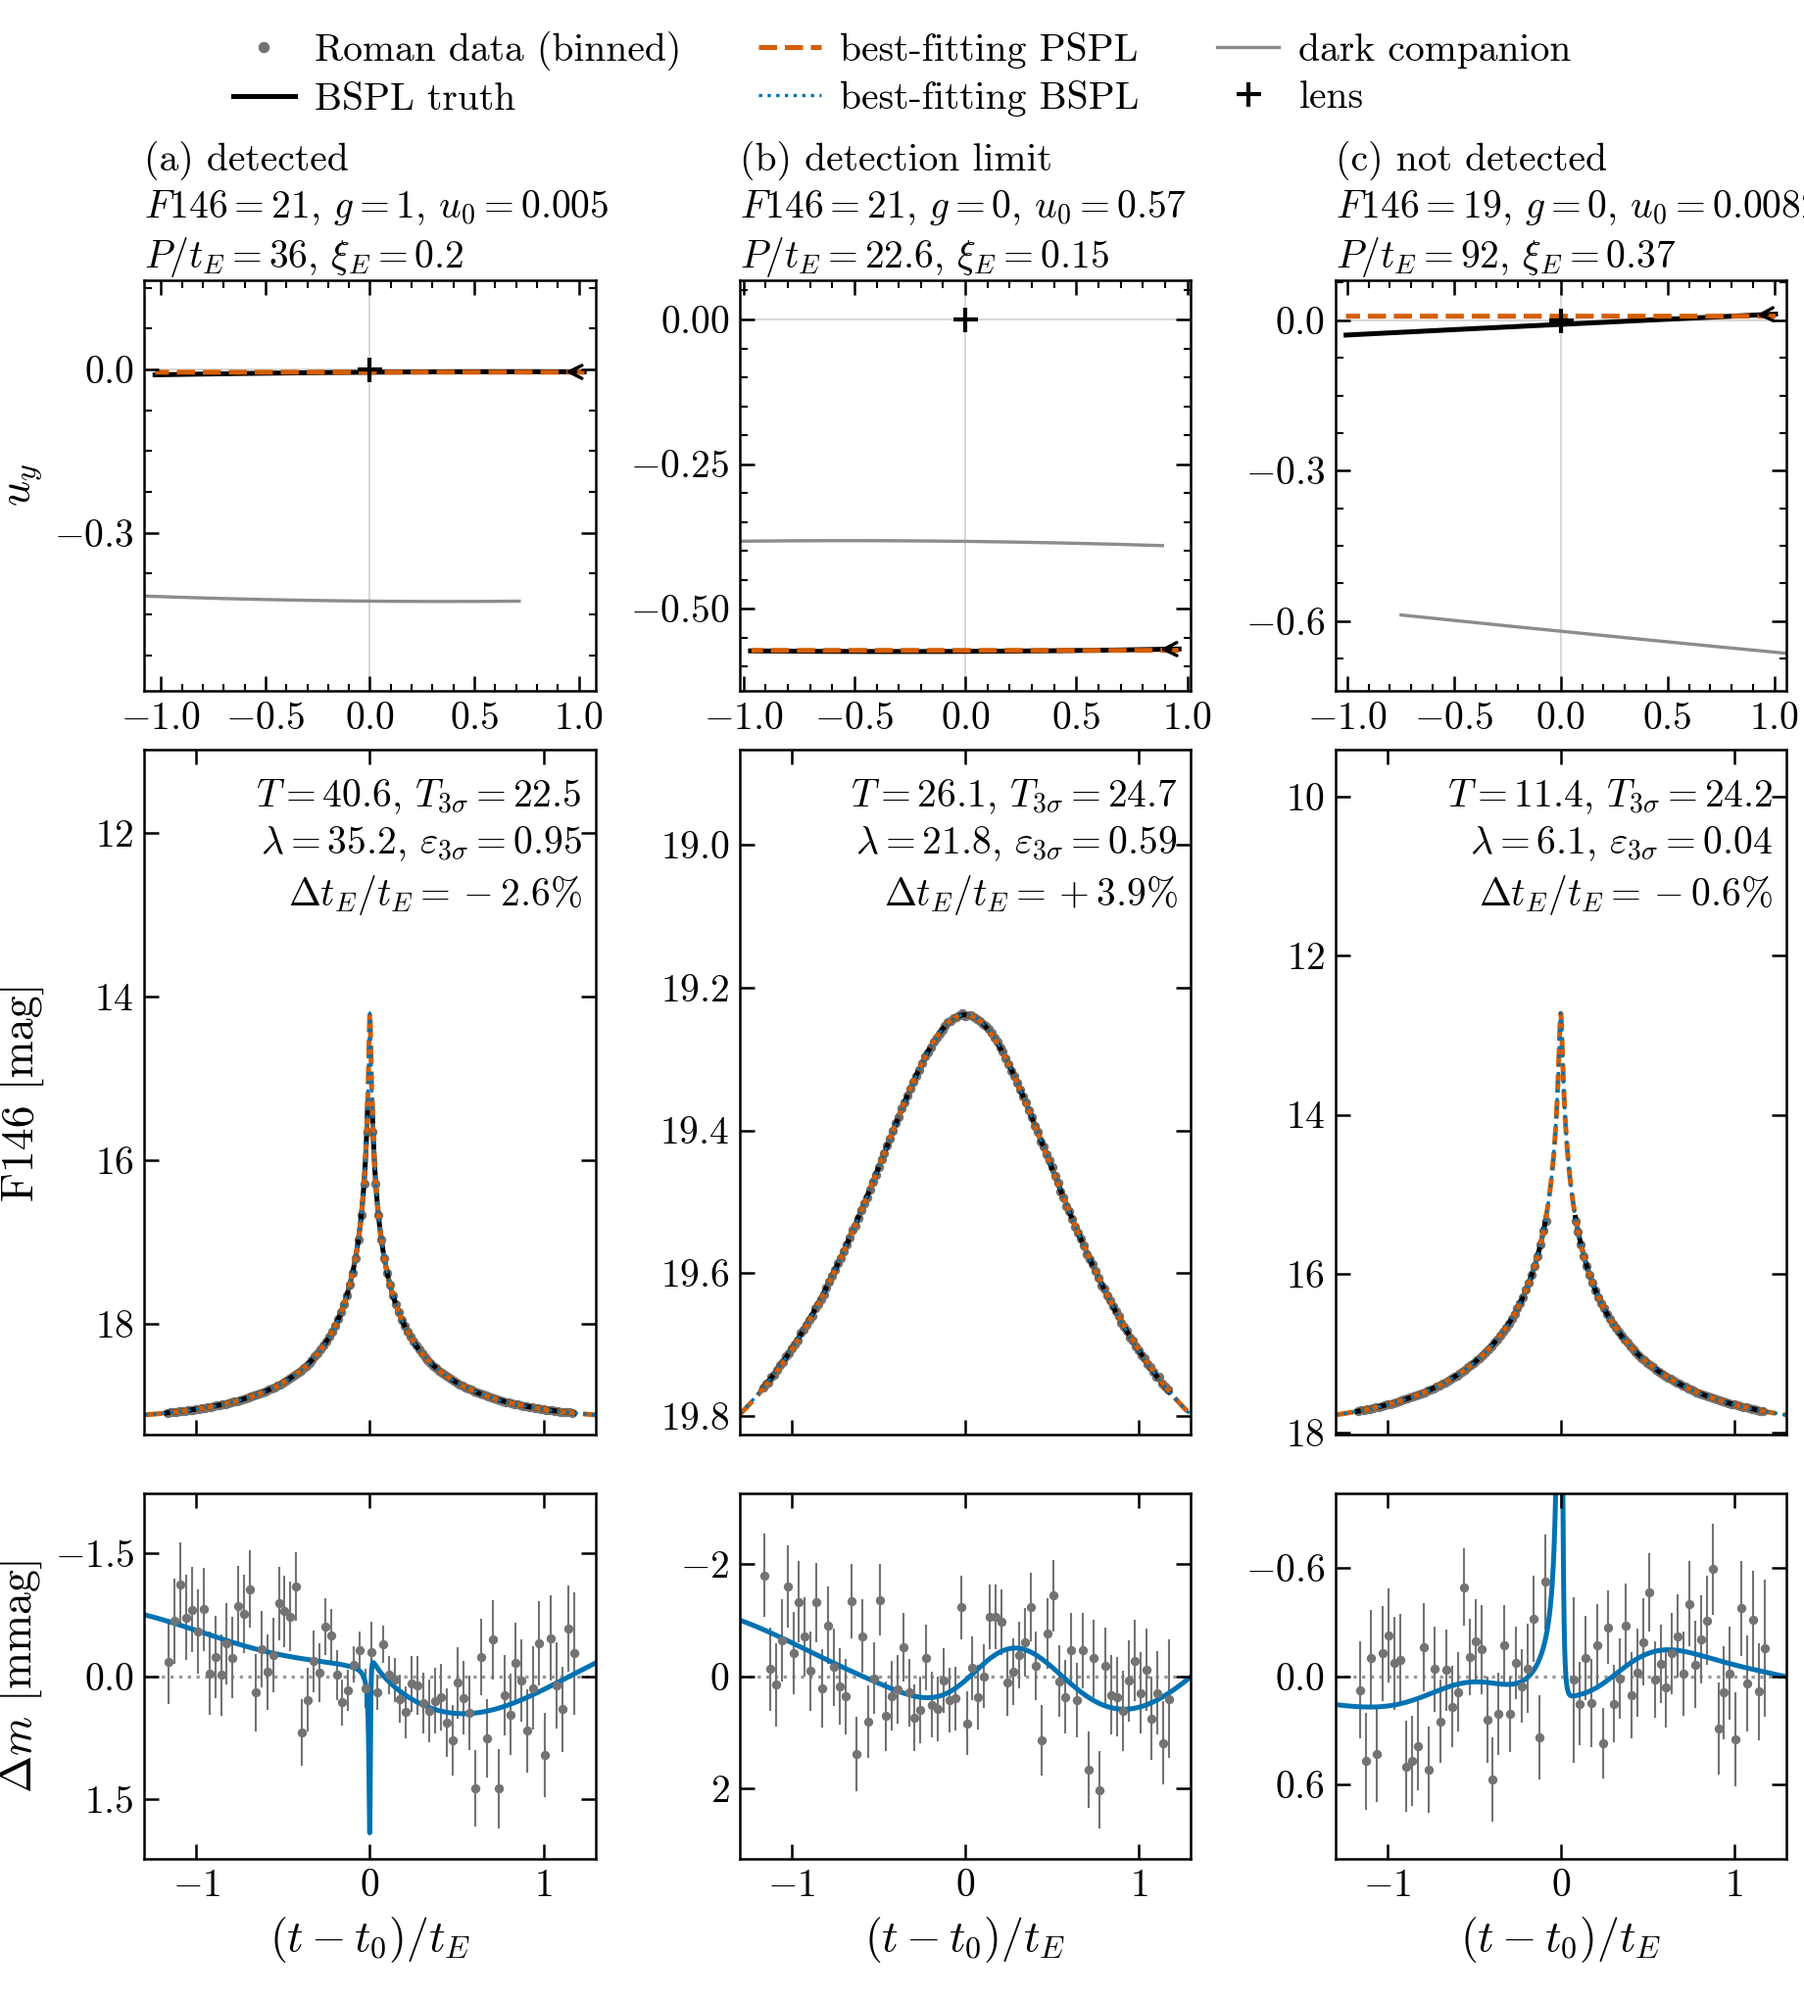
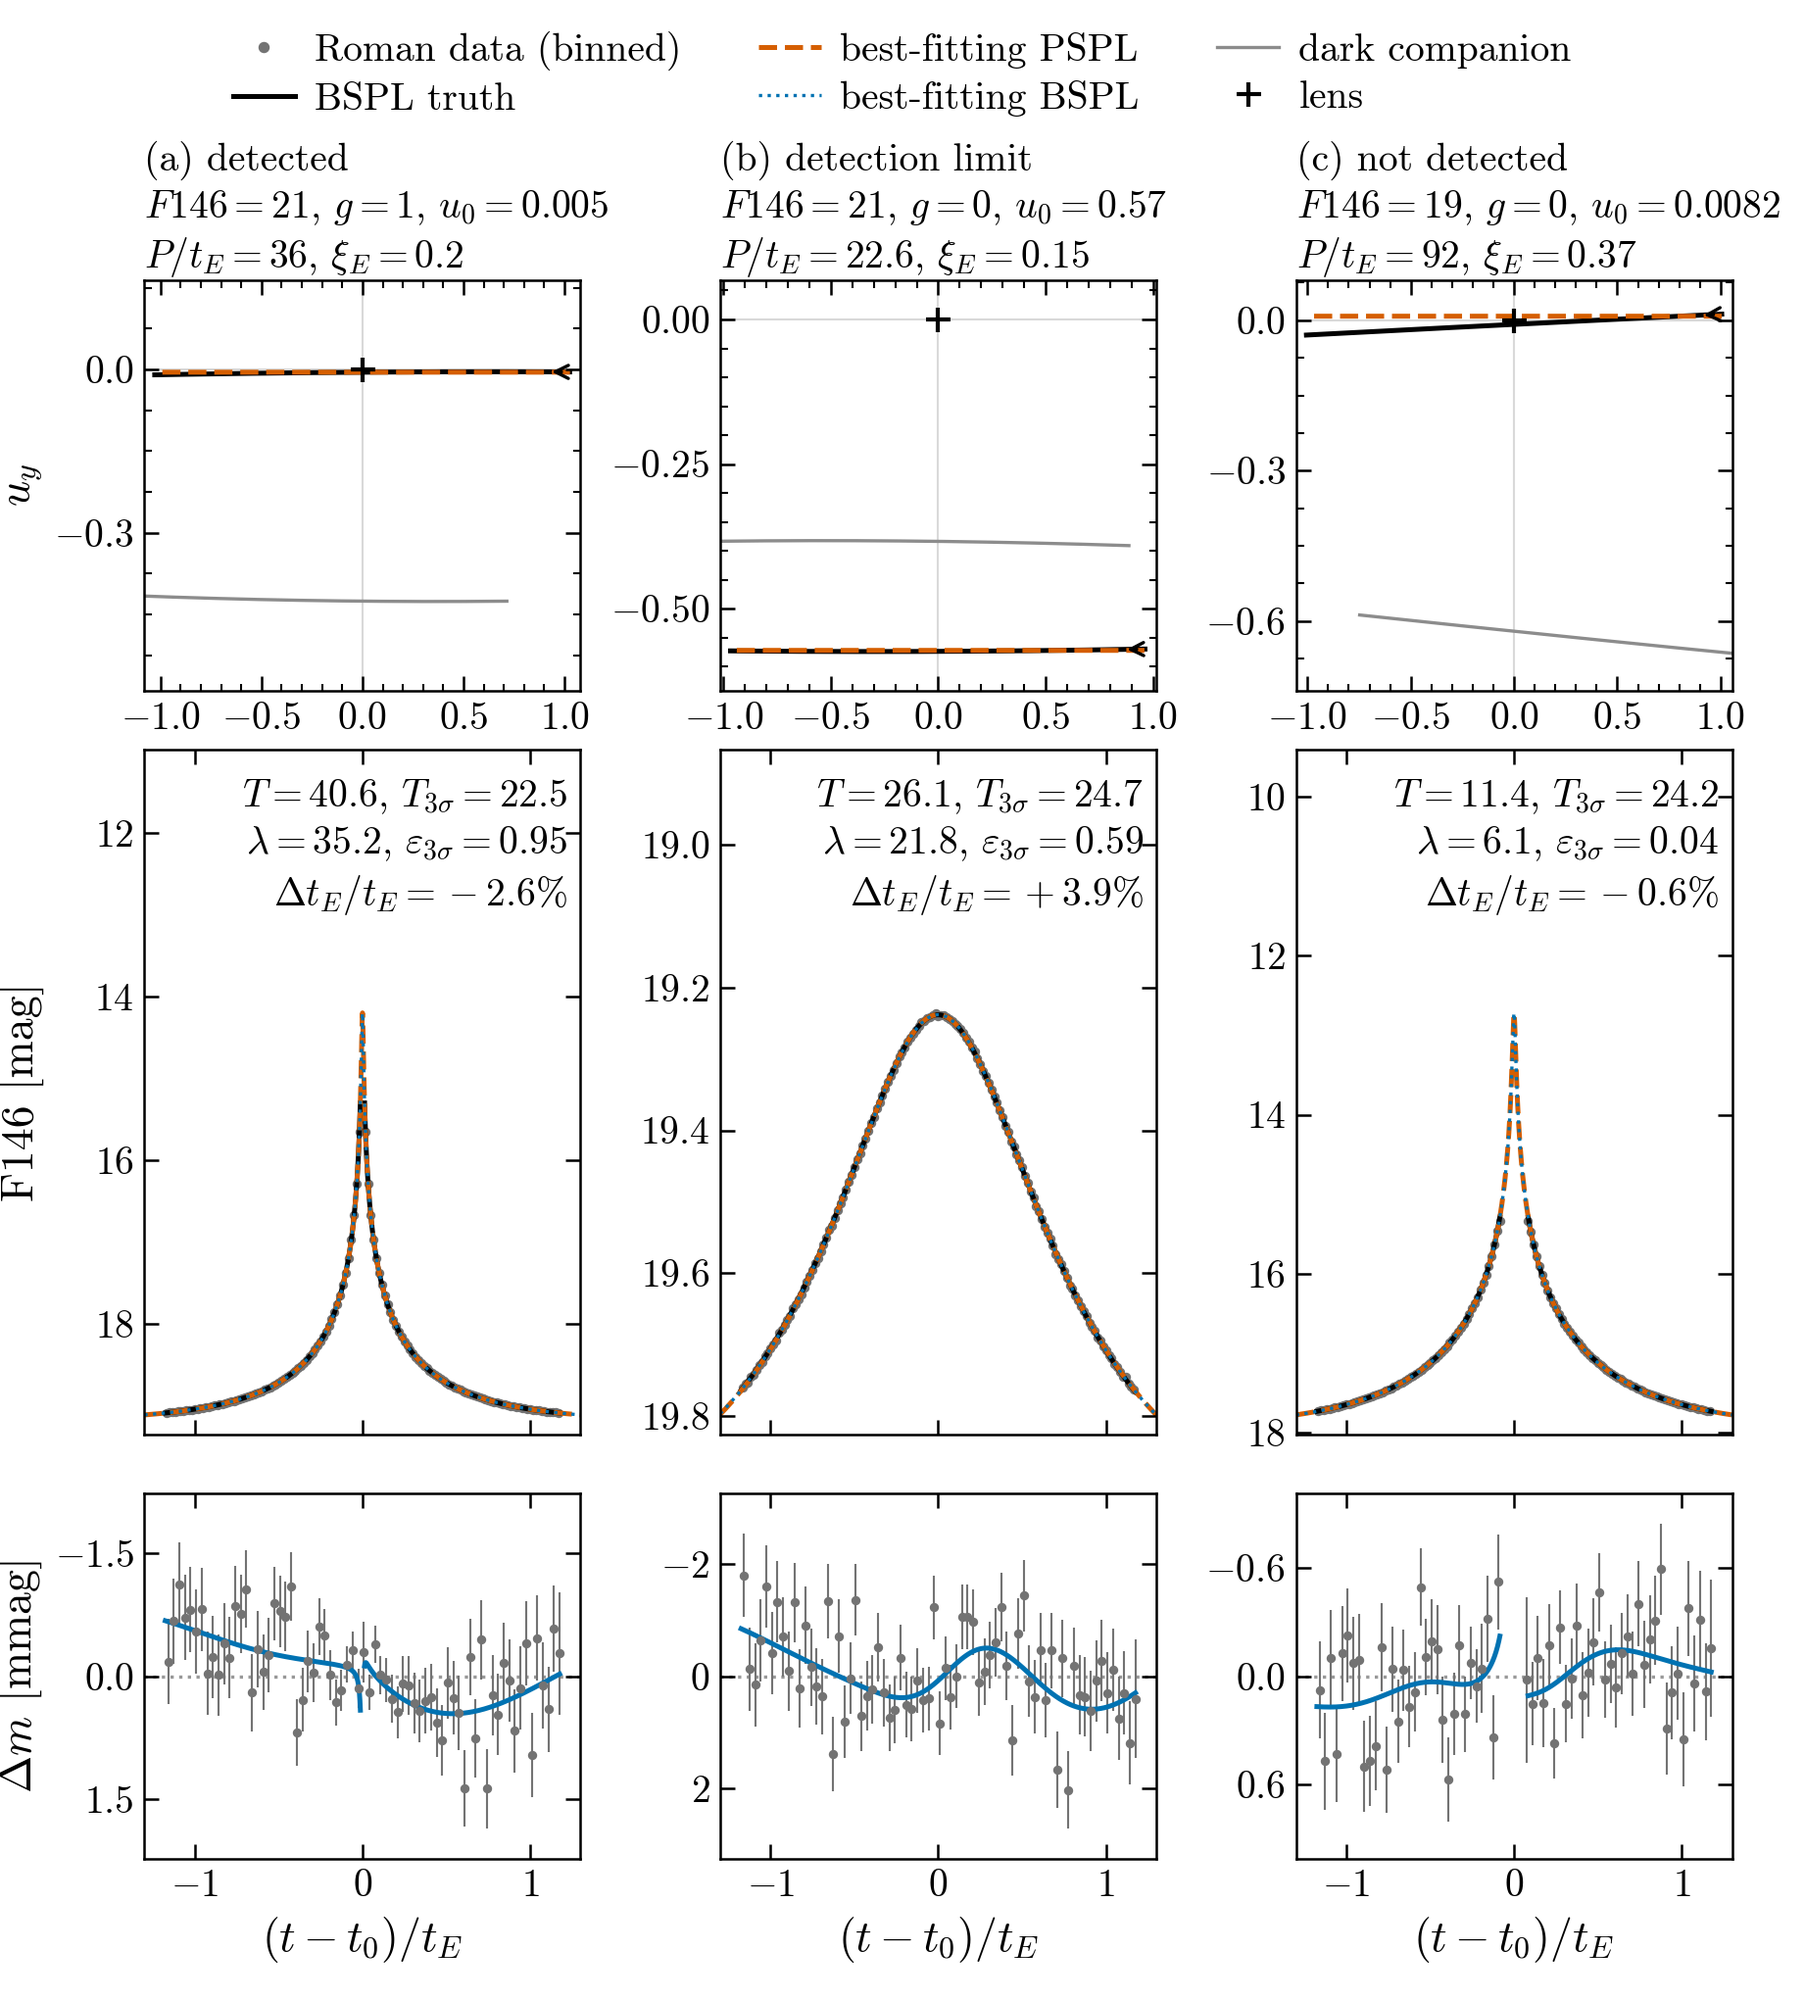
plot_sec6_lightcurve_examples: BSPL - PSPL residual curve only where Roman has data (saturated peaks), narrower panels so the titles fit

diff --git a/binary_source/plot_codes/plot_sec6_lightcurve_examples.py b/binary_source/plot_codes/plot_sec6_lightcurve_examples.py
@@ -147,6 +147,9 @@ def column(fig, gs_col, d, a, profile, cell, spec, kh1, status, letter, args):
                                      pspl["best_model"])
     md_bspl = runner.model_magnitude(runner.build_fit_model(lcd, ra, dec, ref, True), v_bspl)
     taud = (td - t0) / tE
+    ts = np.sort(t)                                # dense times with Roman data nearby
+    i = np.clip(np.searchsorted(ts, td), 1, len(ts) - 1)
+    observed = np.minimum(np.abs(td - ts[i - 1]), np.abs(ts[i] - td)) < 3 * np.median(np.diff(ts))
 
     tau = (t - t0) / tE
     z = np.abs(tau) < args.zoom_tE
@@ -221,7 +224,8 @@ def column(fig, gs_col, d, a, profile, cell, spec, kh1, status, letter, args):
     tr_, rb, rbe = binned(t[z], r[z], w[z], args.resid_bin_days)
     axR.axhline(0.0, color="0.6", lw=LW_THIN, ls=":")
     axR.errorbar((tr_ - t0) / tE, 1e3 * rb, 1e3 * rbe, fmt=".", ms=2.5, color="0.45", lw=0.5)
-    axR.plot(taud, 1e3 * (md_bspl - md_pspl), color=C_BLUE, lw=LW_MAIN)
+    axR.plot(taud, np.where(observed, 1e3 * (md_bspl - md_pspl), np.nan), color=C_BLUE,
+             lw=LW_MAIN)                           # only where Roman has data
     lim = 1.2 * np.nanmax(np.abs(1e3 * rb) + 1e3 * rbe)
     axR.set_ylim(lim, -lim)                         # magnitudes: brighter up
     axR.set_xlabel(r"$(t-t_0)/t_E$")
@@ -251,7 +255,7 @@ def main():
     n = len(args.examples)
     fig = plt.figure(figsize=(fig_width(1.0), 6.8))
     gs = fig.add_gridspec(3, n, height_ratios=[0.9, 1.5, 0.8], hspace=0.12, wspace=0.32,
-                          left=0.08, right=0.99, bottom=0.07, top=0.86)
+                          left=0.08, right=0.96, bottom=0.07, top=0.86)
     axes = []
     for j, (cid, status) in enumerate(zip(args.examples, args.status)):
         d, a, profile, Tmed, nreal = typical_event(args.run, cid)
